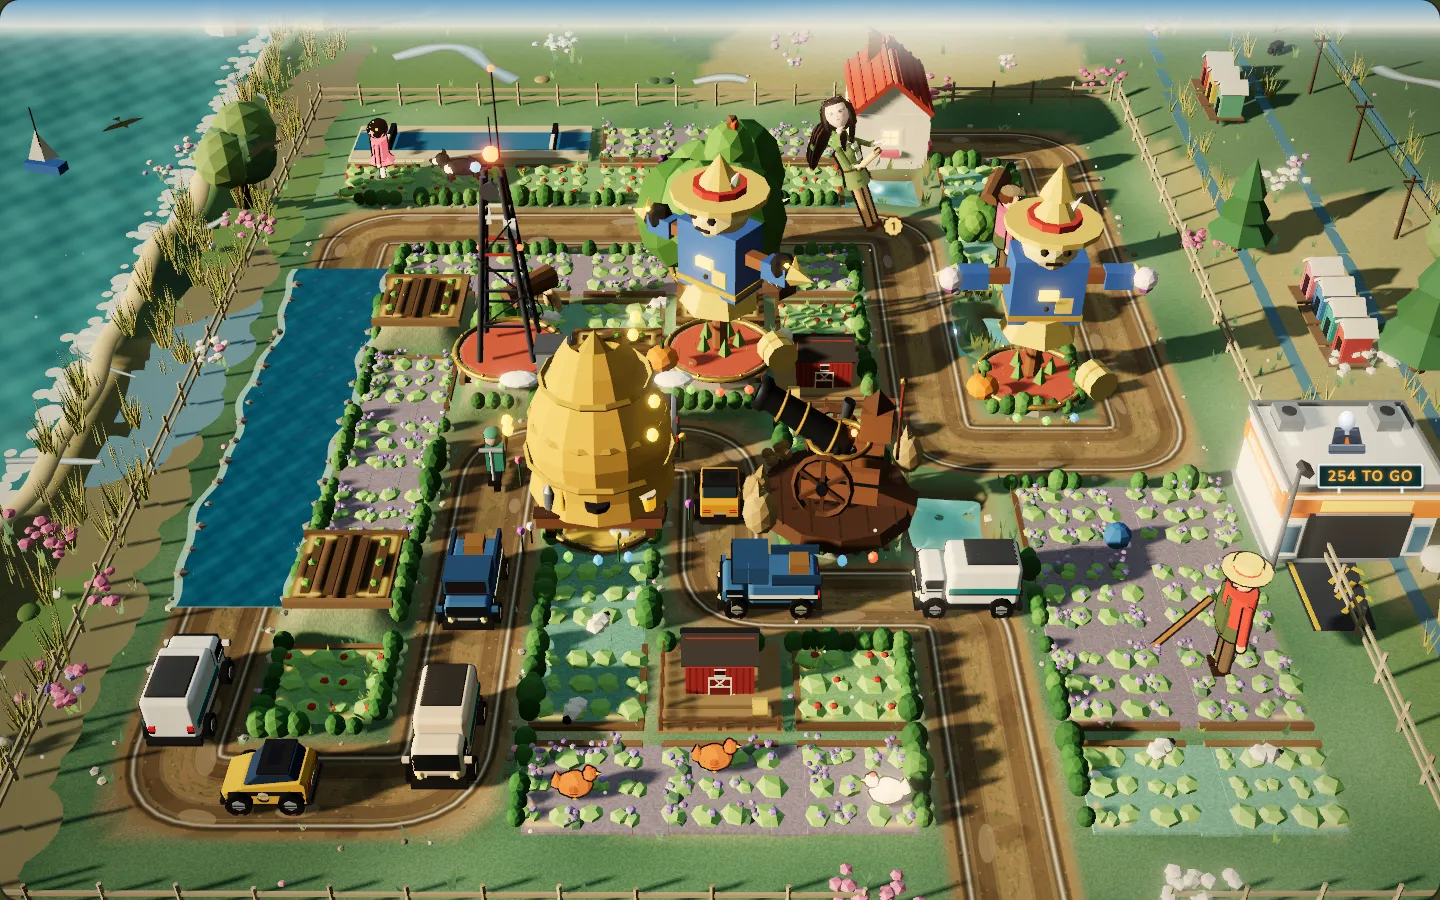
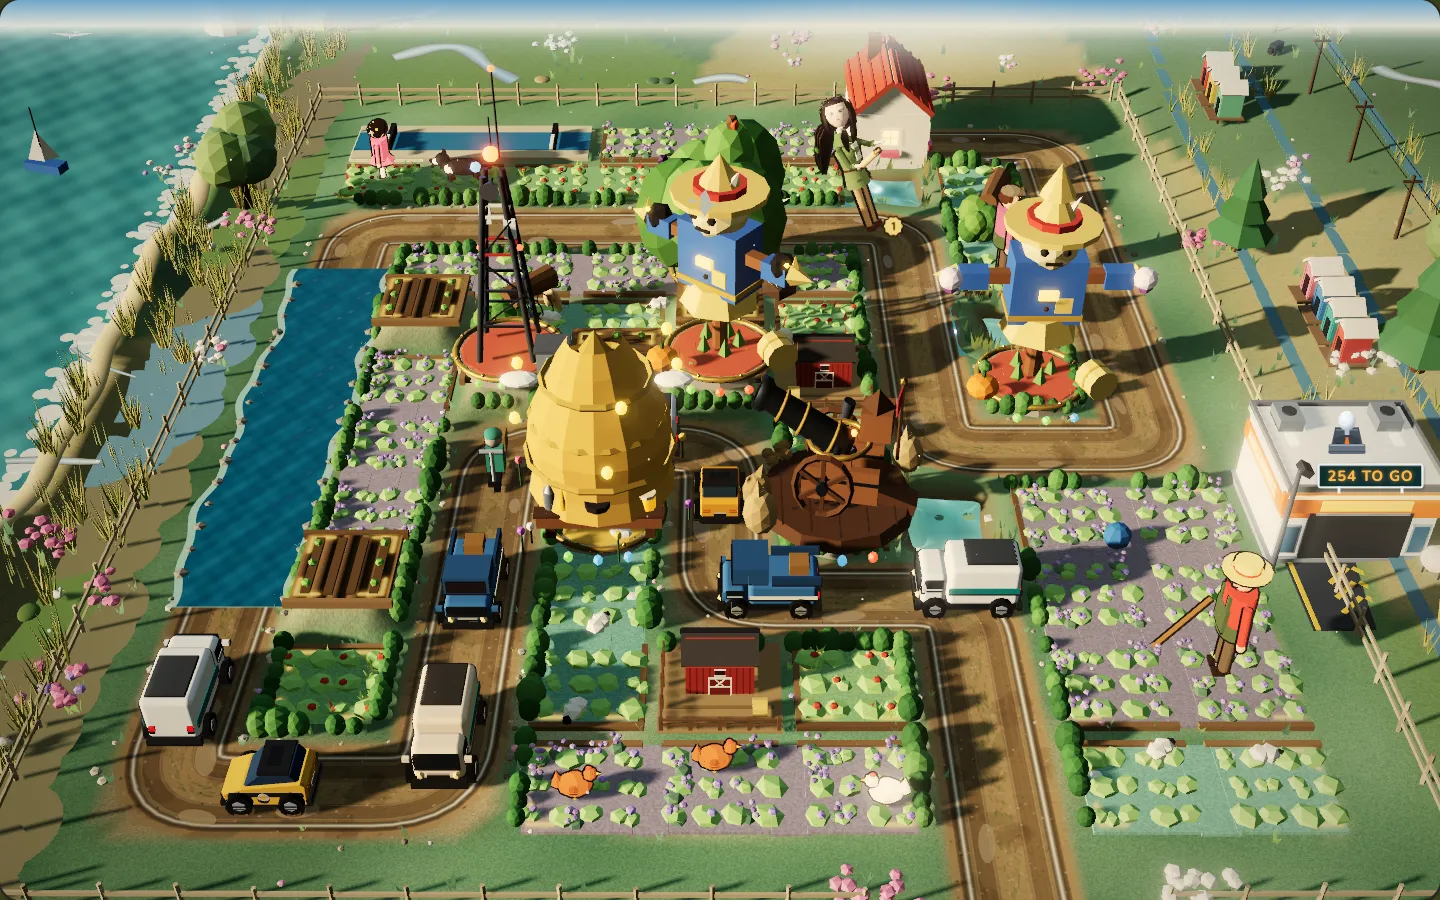
Hedgerow 2D: the baked field saturated toward the 3D diorama's colour (plan item 568 slice 1); key art re-shot; notes; lane B lock released
Claude-Session: https://claude.ai/code/session_01SimvMN1RHBGCWN7Eo7MzhN

diff --git a/games/hedgerow/src/render.ts b/games/hedgerow/src/render.ts
@@ -871,6 +871,23 @@ export class Renderer {
       const bctx = this.bg.getContext("2d")!;
       bctx.setTransform(this.dpr, 0, 0, this.dpr, 0, 0);
       paintBackground(bctx, level, { width: W, height: H, cell: s, offX, offY });
+      // Plan item 568: the field in the 3D diorama's colour: the painted beds read grey-teal beside it (saturation 0.24
+      // against 0.42 at level 21), so the baked ground is lifted once here (no per-frame filter).
+      {
+        const grade = document.createElement("canvas");
+        grade.width = this.bg.width;
+        grade.height = this.bg.height;
+        const gctx = grade.getContext("2d");
+        if (gctx && "filter" in gctx) {
+          gctx.filter = `saturate(${BG_SATURATE})`;
+          gctx.drawImage(this.bg, 0, 0);
+          bctx.save();
+          bctx.setTransform(1, 0, 0, 1, 0, 0);
+          bctx.clearRect(0, 0, this.bg.width, this.bg.height);
+          bctx.drawImage(grade, 0, 0);
+          bctx.restore();
+        }
+      }
       // Plan item 497: the country round the field steps back: a soft warm veil over everything outside the field's
       // own rectangle (14%, deepening a little toward the frame's edges), so the lane, plots and towers lead and the
       // margins' huts, boats and trees read as setting, as the 3D diorama's haze does. Baked once with the field.
@@ -2674,6 +2691,10 @@ export class Renderer {
     }
   }
 }
+
+/** Plan item 568: how much the 2D field's baked ground is saturated, toward the 3D diorama's colour (1.7 put the 2D pond
+ * 20 dE from the 3D one, past hedgerow-water's 15). */
+const BG_SATURATE = 1.55;
 
 /** The width of a swarm badge's row of types (at most three) and its total, for layout. */
 const SWARM_KINDS = 3;

diff --git a/PROGRESS.md b/PROGRESS.md
@@ -8,7 +8,7 @@ Short by design (SPEC 16: under 150 lines). v1's full history (M0 to M7, every s
 - E2E red on hedgerow-water (11-15 04:35) fixed by lane A 05:10: the spec samples Rivermead's willow pond (level 31); Saltmarsh's salt pan is pink brine by design (item 399).
 - Owner session (11-09): the owner's release never landed and the pause ended 11-11 02:00 UTC. **Open:** Hedgerow level 12 at D: since item 250's portrait the bubble covers 21% of empty plots; the D bound is 30% there until the placement is reworked.
 - Critique bugs from the 09:35 shots (`e2e/screenshots/plan1103d/`): NIGHT SHIFT wordmark 'H's: closed 2026-11-07 06:30 (lane A: whole at L and D at 8 s and 20 s; the SVG path, no dash left). Runnel P's spring house and garden: closed 2026-11-04 (item 106).
-- Lane B (16:21 11-20): E2E red on d9303f7: critique103 :31 real (a two-line hand name clipped at 15 px since 565 slice 1), fixed with line-height 1.2; the rest pass alone (load). Lock released.
+- Lane B (16:21 11-20): E2E red fixed (critique103: a two-line hand name clipped at 15 px); 568 slice 1 (Hedgerow 2D ground saturated toward the 3D colour, key art re-shot). Lock released.
 - Critique bugs from the 2026-11-08 08:15 shots (`e2e/screenshots/plan1108b/`, lane A): `hedge-menu-D` the act-4 'Beyond the hedge' note cut at the viewport foot (527-913 x 850-900, likely just the scroll); `hedge-menu-P` Hollowell boards beside 'The Unboxing' (10-100 x 380-405) and 'Golden Hour' (10-100 x 455-480), a block against 'Brand Ambassador' (320-385 x 515-555). The rest went into items 282, 283, 287 and 288.
 - Critique bugs from the 2026-11-05 09:30 shots (`e2e/screenshots/plan1105c/`, lane B): `cath-title-D` pennant hint ~13 px white on brown (1030-1280 x 800-818) and footer ~12 px (310-1130 x 872-886); `cath-title-P` small keys' labels ~12 px (85-305 x 692-735); `cath-setup-D` seed 'random' low contrast (655-840 x 795-835); `hedge-l34-2d-D` '485 coming' over a farmer (300-395 x 128-150); `hedge-menu-P` 'Brand Ambassador' (closed 2026-11-07 06:35 lane A: on its own label pill beside stop 30, off the road); `ns-title-D` neon sign clipped at the top (790-1150 x 0-45); `ns-play-P` FIXER tab cut (340-390 x 68-82); `games-P` hero ghosted (likely shot mid-entrance: check before fixing).
 - Critique bug seen 2026-11-04 13:30 (lane A, 1280x800): a Not-yet name cut on a 1280 desktop. Fixed 2026-11-04 14:15 (item 104 slice 1).
@@ -39,7 +39,7 @@ None (Vercel deployed 9aee11e on 2026-10-12). (The App Store launch is postponed
 - 2026-11-01 20:28 `929e99c`: plan items 7, 8, 9 (NIGHT SHIFT entrances and busts, Cath's face, the Cathnivore end screen). Gates 1-8 passed, live smoke test passed outright, tag push 403 (harmless).
 
 ## Session log (newest first, last 15)
-- 2026-11-20 16:21 lane B: red E2E fixed (desktop hand name clip); hand/table and critique103 specs pass.
+- 2026-11-20 16:21 lane B: red E2E fixed (desktop hand name clip); 568 slice 1 (2D saturation 1.55, the pond match caps it); Hedgerow 2D specs pass.
 - **2026-11-20 15:51 lane A:** 566 slice 1 (1 code commit). table-hand, table-hand-fan, desktop-no-scroll (D, 12 passed, --retries=0); a scripted cover check over random deals at 1440x900 and 1280x800; tsc, eslint. No full check. Shots scratchpad b566. Lock released.
 - 2026-11-20 14:51 lane A: 565 and 571 done, 566-570 planned; targeted specs green (plan-strip, table-hand*, hedgerow-map, cathode-front upright); full check: one red (Hedgerow key art stale after render.ts), re-shot and green.
 - 2026-11-20 15:21 lane B: 567 slice 1; 133 Runnel specs + a new greening spec pass.

diff --git a/docs/plan/two-week-plan.md b/docs/plan/two-week-plan.md
@@ -5601,7 +5601,7 @@ Progress (lane B, 2026-11-19 02:50, slices 1-2, `2c24709`, `86ee3f0`): each towe
   - Runnel specs pass; shots P and D, before and after a solve.
 - **Size:** 2
 
-## 568. [ ] Hedgerow 2D: the 3D field's colour, and a desktop field without dead margins *(lane B, in progress)*
+## 568. [ ] Hedgerow 2D: the 3D field's colour, and a desktop field without dead margins *(handed back 2026-11-20 16:55 by lane B after slice 1)* *(slice 1, lane B: the baked ground saturated once at bake time (`BG_SATURATE` 1.55 in render.ts, a canvas filter, no per-frame cost): level 21's beds 0.24 -> 0.357 saturation against the 3D shot's 0.423 (the accept's 'within 15%' wants 0.36: 1.7 reached 0.387 but put the 2D pond 20 dE from the 3D one, past hedgerow-water's 15). Lane vs beds already 37% luminance apart (accept 25%). 2D Hedgerow specs pass P and D; key art re-shot. Shots e2e/screenshots/plan1120o. **Left:** the depot inside the field frame, the desktop surround as hedge and shore)*
 *(planned 2026-11-20 15:20, lane A, plan1120p critique)*
 - **Why:** the 2D renderer is the no-WebGL fallback and the test path. `hedge-l21-2d-D`: the beds (380-830 x 180-800) read teal-grey under a haze and the lane is a pale cream maze; the depot hangs off the field's left edge over the shore (150-320 x 410-550); at D the green margins either side of the field are flat. `hedge-l34-2d-P` has the same grey veil.
 - **Build:** item 561's grade in 2D: warmer, more saturated beds, a darker lane shade with pale kerbs, the haze lifted (`sunGrade`/`ambient` in render.ts); the field's surround at D drawn as hedge and shore (not flat colour); the depot inside the field frame.
